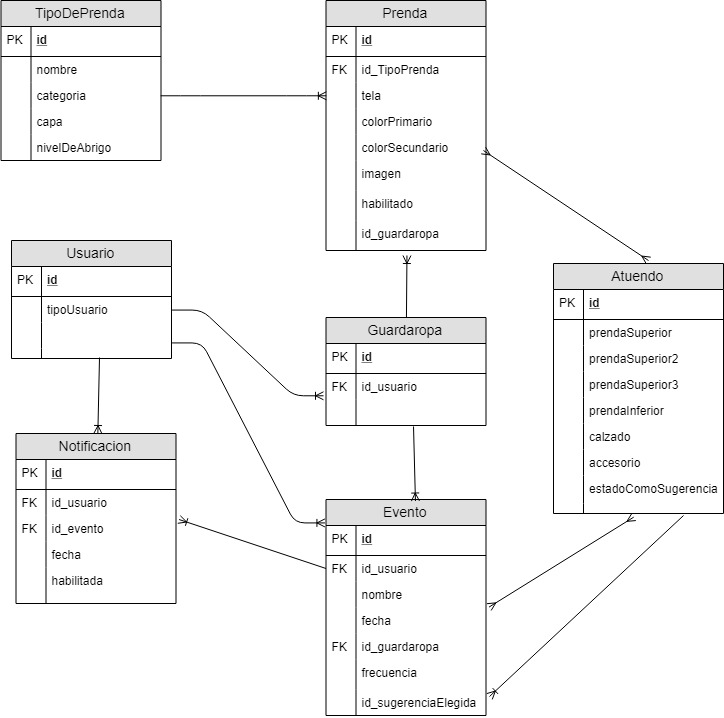
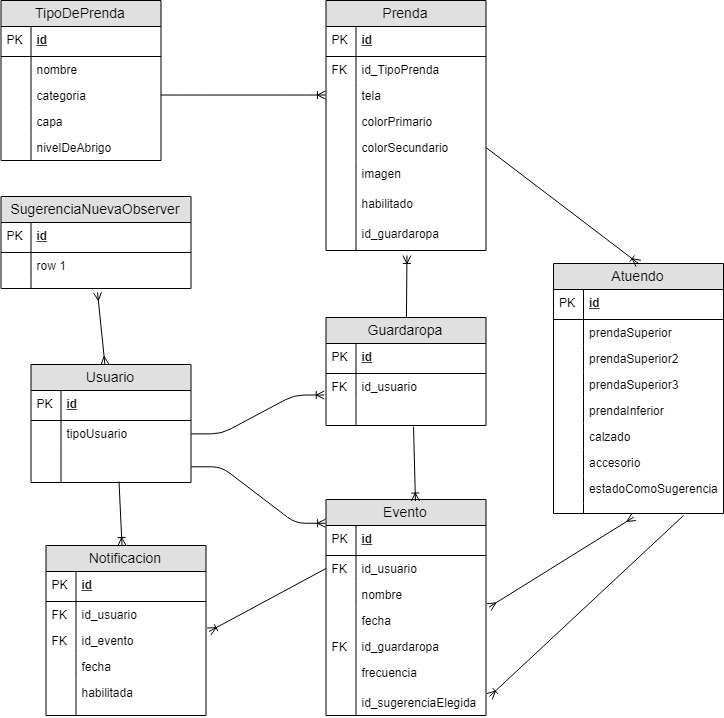
Agregando Mapeos del modelo

diff --git a/src/main/java/modelo/Evento.java b/src/main/java/modelo/Evento.java
@@ -6,6 +6,16 @@ import java.time.temporal.ChronoUnit;
 import java.util.ArrayList;
 import java.util.List;
 
+import javax.persistence.ElementCollection;
+import javax.persistence.Embedded;
+import javax.persistence.Entity;
+import javax.persistence.EnumType;
+import javax.persistence.Enumerated;
+import javax.persistence.GeneratedValue;
+import javax.persistence.Id;
+import javax.persistence.ManyToOne;
+import javax.persistence.Transient;
+
 import org.apache.commons.collections.CollectionUtils;
 import org.uqbar.commons.model.annotations.Observable;
 
@@ -13,17 +23,27 @@ import auxiliar.Frecuencia;
 import modelo.operaciones.Operacion;
 import repositorios.RepositorioSugerenciasPasadas;
 import servicios.ProveedorOpenWeather;
+@Entity
 @Observable
 public class Evento {
-	
+	@Id@GeneratedValue
+	private int id;
 	private LocalDate fecha;
 	private String nombre;
+	@ManyToOne
 	private Usuario usuario;
+	@ManyToOne
 	private Guardaropa guardaropa;
+	@ElementCollection//@ManyToMany
 	private List<Atuendo> sugerencias;
+	@Enumerated(EnumType.STRING)
 	private Frecuencia frecuencia;
+	@Transient
 	private List<Operacion> operaciones;
+	@Embedded//@OneToOne
 	private Atuendo sugerenciaElegida;
+	
+	public Evento(){}
 	
 	public Evento(LocalDate fecha,String nom,Usuario usu,Guardaropa guardaropa,Frecuencia frec){
 		this.fecha=fecha;

diff --git a/src/main/java/modelo/Usuario.java b/src/main/java/modelo/Usuario.java
@@ -7,23 +7,37 @@ import java.util.Scanner;
 import java.util.Set;
 import java.util.stream.Collectors;
 
+import javax.persistence.Entity;
+import javax.persistence.GeneratedValue;
+import javax.persistence.Id;
+import javax.persistence.JoinColumn;
+import javax.persistence.ManyToMany;
+import javax.persistence.ManyToOne;
+import javax.persistence.OneToMany;
+
 import org.uqbar.commons.model.annotations.Observable;
 
 import auxiliar.Frecuencia;
 import modelo.observadores.SugerenciasObserver;
 import repositorios.RepositorioEventos;
 import servicios.ProveedorOpenWeather;
+@Entity
 @Observable
 public class Usuario {
-	
+	@Id@GeneratedValue
+	private int id;
+	@OneToMany@JoinColumn(name="id_usuario")
 	private List<Guardaropa> guardaropas;
-	
+	@ManyToOne
 	private TipoDeUsuario tipoDeUsuario;
+	@OneToMany@JoinColumn(name="id_usuario")
 	private List<Notificacion> notificaciones;
+	@ManyToMany
 	private List<SugerenciasObserver> interesados;
 	
 	private float nivelFriolencia; //0.1 muy friolento, 1.9 muy caluroso
 	
+	public Usuario(){}
 	
 	public Usuario(TipoDeUsuario tipo){
 		this.guardaropas=new ArrayList<Guardaropa>();

diff --git a/src/main/java/modelo/Atuendo.java b/src/main/java/modelo/Atuendo.java
@@ -4,15 +4,28 @@ import java.util.List;
 import java.util.stream.Collector;
 import java.util.stream.Collectors;
 
+import javax.persistence.Embeddable;
+import javax.persistence.EnumType;
+import javax.persistence.Enumerated;
+import javax.persistence.ManyToOne;
+@Embeddable
 public class Atuendo {
-
+	@ManyToOne
 	Prenda prendaSuperior;
+	@ManyToOne
 	Prenda prendaSuperior2;
+	@ManyToOne
 	Prenda prendaSuperior3;
+	@ManyToOne
 	Prenda prendaInferior;
+	@ManyToOne
 	Prenda calzado;
+	@ManyToOne
 	Prenda accesorio;
+	@Enumerated(EnumType.STRING)
 	EstadoComoSugerencia estadoComoSugerencia;
+	
+	public Atuendo(){}
 	
 	public Atuendo(Prenda sup, Prenda sup2,Prenda sup3,Prenda inf, Prenda cal, Prenda acc) {
 		this.prendaSuperior = sup;

diff --git a/src/main/java/modelo/Guardaropa.java b/src/main/java/modelo/Guardaropa.java
@@ -4,14 +4,24 @@ import java.util.ArrayList;
 import java.util.List;
 import java.util.stream.Collectors;
 
+import javax.persistence.Entity;
+import javax.persistence.GeneratedValue;
+import javax.persistence.Id;
+import javax.persistence.JoinColumn;
+import javax.persistence.ManyToOne;
+import javax.persistence.OneToMany;
+
 import com.google.common.collect.Lists;
 
 import exceptions.GuardarropaIncompletoException;
 
-
+@Entity
 public class Guardaropa {
-	
+	@Id@GeneratedValue
+	private int id;
+	@OneToMany@JoinColumn(name="id_guardaropa")
 	protected List<Prenda> prendas;
+	@ManyToOne
 	protected Usuario usuario;
 	
 	public Guardaropa() {

diff --git a/src/main/java/modelo/observadores/SugerenciasObserver.java b/src/main/java/modelo/observadores/SugerenciasObserver.java
@@ -1,8 +1,17 @@
 package modelo.observadores;
 
+import javax.persistence.Entity;
+import javax.persistence.GeneratedValue;
+import javax.persistence.Id;
+import javax.persistence.Inheritance;
+import javax.persistence.InheritanceType;
+
 import modelo.Evento;
 import modelo.Usuario;
-
-public interface SugerenciasObserver {
-	public void notificarSugerenciasNuevas(Usuario usuario,Evento evento);
+@Inheritance(strategy=InheritanceType.SINGLE_TABLE)
+@Entity
+public abstract class SugerenciasObserver {
+	@Id@GeneratedValue
+	private int id;
+	public abstract void notificarSugerenciasNuevas(Usuario usuario,Evento evento);
 }

diff --git a/src/main/java/modelo/TipoDeUsuario.java b/src/main/java/modelo/TipoDeUsuario.java
@@ -2,6 +2,15 @@ package modelo;
 
 import java.util.List;
 
-public interface TipoDeUsuario {
-	public List<Prenda> agregarPrenda(List<Prenda> listaPrendas,Prenda prenda);
+import javax.persistence.Entity;
+import javax.persistence.GeneratedValue;
+import javax.persistence.Id;
+import javax.persistence.Inheritance;
+import javax.persistence.InheritanceType;
+@Inheritance(strategy=InheritanceType.SINGLE_TABLE)
+@Entity
+public abstract class TipoDeUsuario {
+	@Id@GeneratedValue
+	private int id;
+	public abstract List<Prenda> agregarPrenda(List<Prenda> listaPrendas,Prenda prenda);
 }

diff --git a/src/main/java/modelo/Gratuito.java b/src/main/java/modelo/Gratuito.java
@@ -2,12 +2,15 @@ package modelo;
 
 import java.util.List;
 
-import exceptions.LimiteListaException;
+import javax.persistence.Column;
+import javax.persistence.Entity;
 
-public class Gratuito implements TipoDeUsuario {
-	
+import exceptions.LimiteListaException;
+@Entity
+public class Gratuito extends TipoDeUsuario {
+	@Column(name="limite")
 	private int limite=10;
-	
+	public Gratuito() {}
 	@Override
 	public List<Prenda> agregarPrenda(List<Prenda> listaPrendas, Prenda prenda) {
 		if(listaPrendas.size()<limite){

diff --git a/src/main/java/modelo/observadores/AlertaNuevasSugerenciasObserver.java b/src/main/java/modelo/observadores/AlertaNuevasSugerenciasObserver.java
@@ -1,10 +1,12 @@
 package modelo.observadores;
 
+import javax.persistence.Entity;
+
 import modelo.Evento;
 import modelo.Usuario;
-
-public class AlertaNuevasSugerenciasObserver implements SugerenciasObserver{
-
+@Entity
+public class AlertaNuevasSugerenciasObserver extends SugerenciasObserver{
+	public AlertaNuevasSugerenciasObserver(){}
 	@Override
 	public void notificarSugerenciasNuevas(Usuario usuario, Evento evento) {
 		// TODO Auto-generated method stub

diff --git a/src/main/java/modelo/Notificacion.java b/src/main/java/modelo/Notificacion.java
@@ -2,13 +2,19 @@ package modelo;
 
 import java.time.LocalDate;
 
+import javax.persistence.Entity;
+import javax.persistence.GeneratedValue;
+import javax.persistence.Id;
+import javax.persistence.ManyToOne;
 
+@Entity
 public class Notificacion {
 	
-	
+	@Id@GeneratedValue
+	private int id;
 	
 	private LocalDate fecha;
-	
+	@ManyToOne
 	private Evento evento;
 	private boolean habilitada;
 	

diff --git a/src/main/java/modelo/Premium.java b/src/main/java/modelo/Premium.java
@@ -2,8 +2,10 @@ package modelo;
 
 import java.util.List;
 
-public class Premium implements TipoDeUsuario{
-
+import javax.persistence.Entity;
+@Entity
+public class Premium extends TipoDeUsuario{
+	public Premium() {}
 	@Override
 	public List<Prenda> agregarPrenda(List<Prenda> guardarropas, Prenda prenda) {
 		guardarropas.add(prenda);

diff --git a/src/main/java/modelo/Prenda.java b/src/main/java/modelo/Prenda.java
@@ -34,7 +34,7 @@ public class Prenda {
 	private String imagen; 
 	private boolean habilitado;
 	
-	
+	public Prenda(){}
 
 	public Prenda(TipoDePrenda ti, Color c1, Tela te) {
 		
